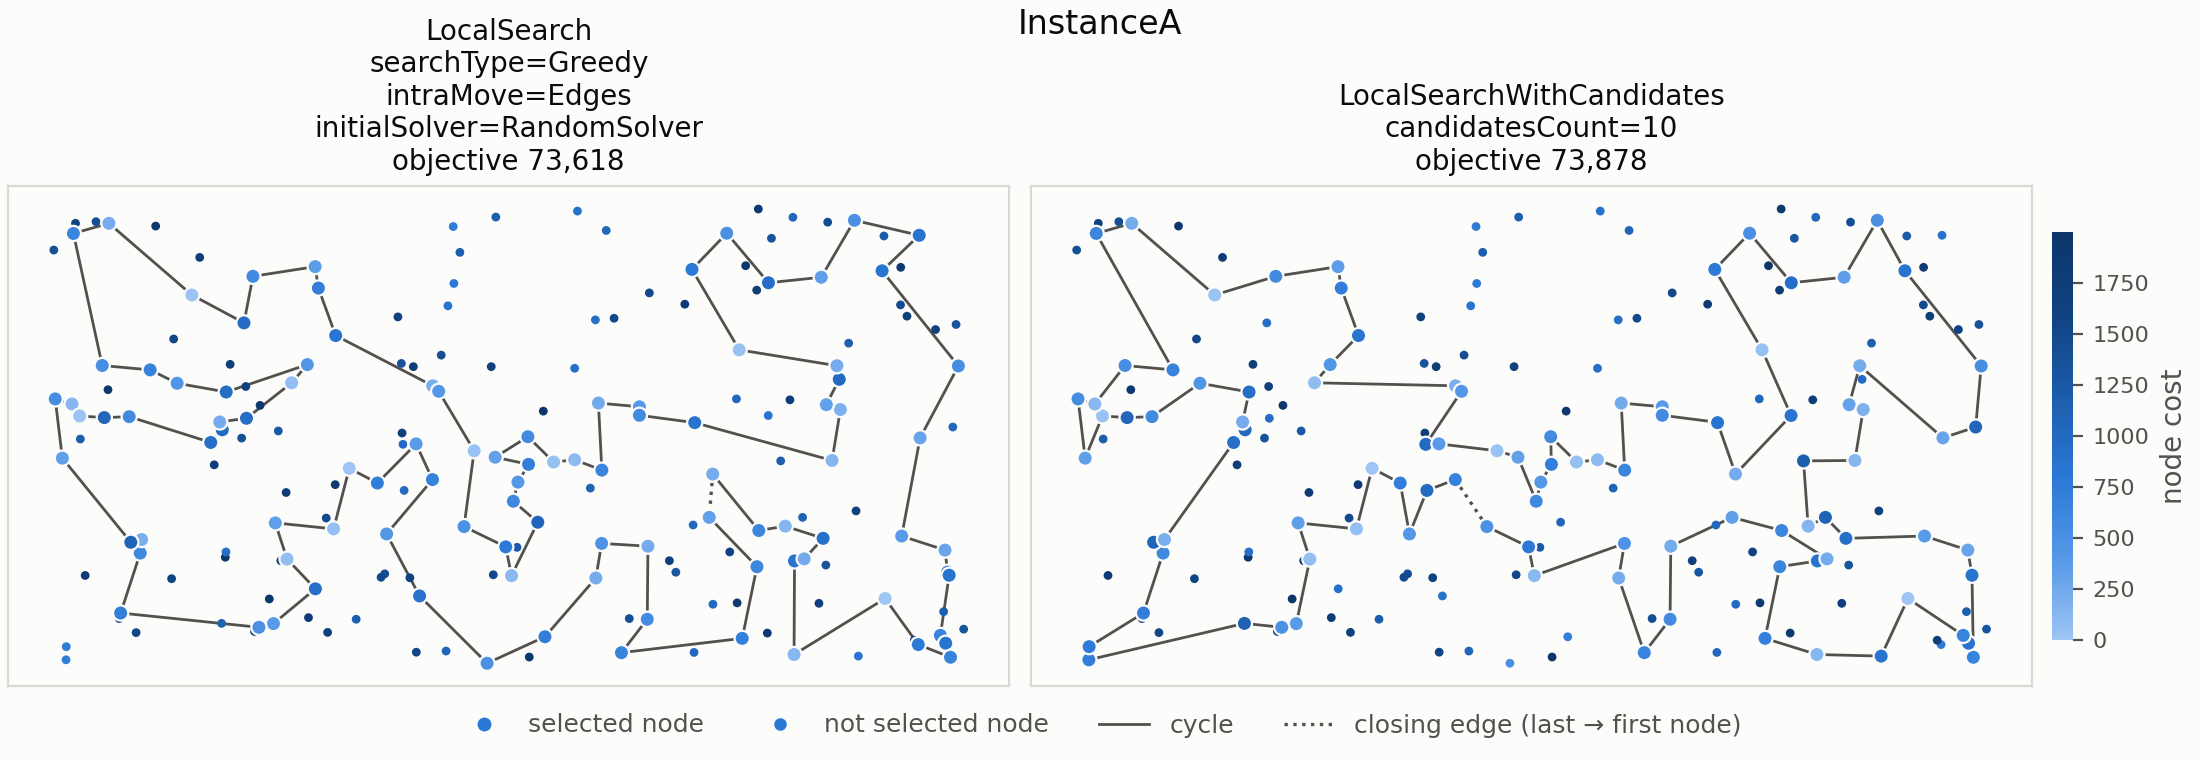
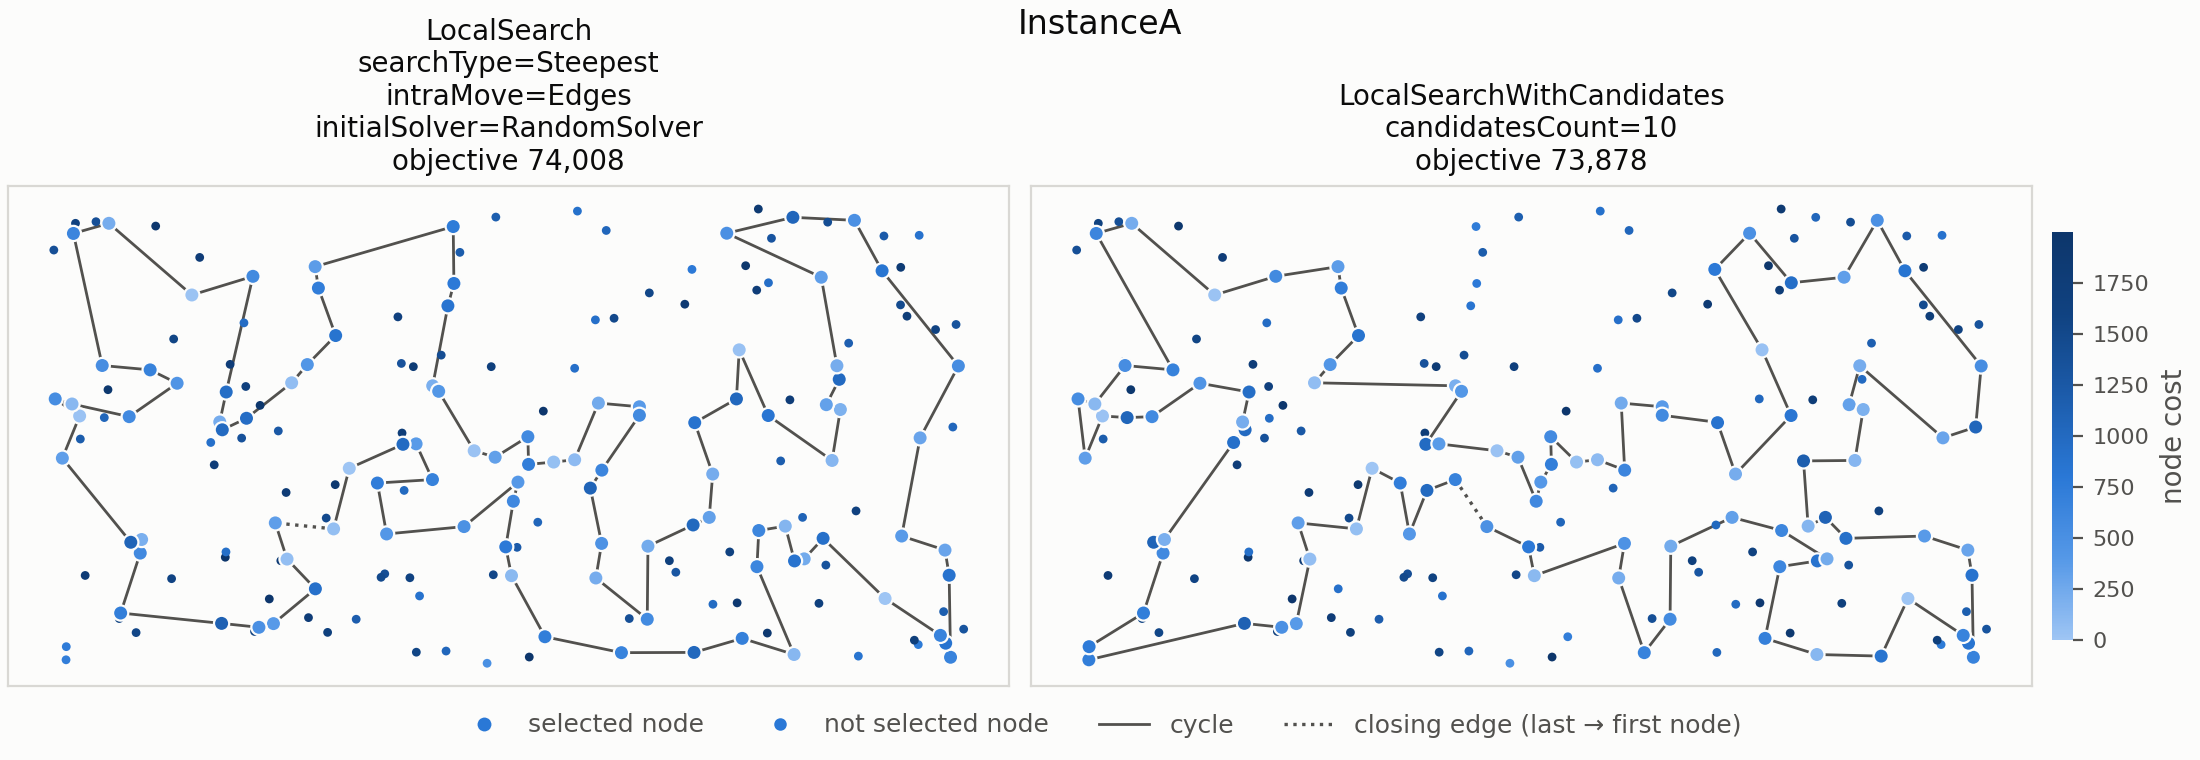
lab 4 report draft

diff --git a/reports/lab4_report.md b/reports/lab4_report.md
@@ -1,0 +1,366 @@
+---
+title: "Evolutionary Computation (Lab 4: Local Search with Candidates)"
+author:
+  - "Oliwier Necelman 160300"
+  - "Karol Okoń 160323"
+geometry: margin=2.2cm
+monofont: DejaVu Sans Mono
+header-includes:
+  - \usepackage{float}
+  - \floatplacement{figure}{H}
+  - \usepackage{booktabs}
+---
+
+# Problem story
+
+The student still has to attend 100 of the 200 classes in one day while
+getting as little tired as possible. This week they do not build the plan from
+scratch, but take a ready plan (a random one, or the one made with last week's
+weighted regret rule) and keep improving it with small changes: replacing one
+attended class with one not attended, swapping the order of two classes, or
+walking a part of the route in reverse.
+
+- The **greedy** student makes the first change that helps.
+- The **steepest** student checks every possible change and makes the best one.
+
+Both stop when no single change makes the day less tiring.
+
+# Problem description (exactly the same as last week)
+
+We are given a set of $n$ nodes. Each node has $x$ and $y$ coordinates in the
+plane and a cost. The goal is to select exactly $k = \lceil n/2 \rceil$ nodes and
+form a Hamiltonian cycle through them that minimizes the total length of the
+cycle plus the total cost of the selected nodes:
+
+$$
+f(C) = \sum_{i=1}^{k} d\left(C_i, C_{(i \bmod k) + 1}\right) + \sum_{i=1}^{k} c(C_i),
+$$
+
+where $C = (C_1, \dots, C_k)$ is the cycle, $d$ is the distance between two
+nodes and $c$ is the cost of a node.
+
+Distances are Euclidean distances rounded mathematically to integers. The
+distance matrix is computed once, right after reading an instance. The
+optimization methods access only the distance matrix and the node costs, never
+the coordinates, so the same code works for instances defined only by a
+distance matrix, including non-Euclidean distances for which the triangle
+inequality does not hold.
+
+Both instances used in the experiments (A and B) have $n = 200$ nodes, so every
+solution contains $k = 100$ nodes. Node costs range from 0 to 1997 in
+instance A and from 3 to 999 in instance B.
+
+# Implemented algorithms
+
+Notation: $D$ is the distance matrix, $c$ the vector of node costs, $C$ the
+current cycle with $k$ nodes, $C_i$ its node at position $i$ (indices modulo
+$k$), and $U$ the set of nodes not in the cycle.
+
+## Neighborhood
+
+The neighborhood consists of two kinds of moves. Every move is evaluated by its
+delta, the change of the objective function, computed only from the edges and
+nodes that change; a negative delta means an improvement. The neighbor solution
+is never built explicitly and the objective is never recomputed from scratch.
+
+- **Inter-route move**, exchange of a selected and an unselected node: node
+  $C_i$ is replaced by $u \in U$. With $a = C_{i-1}$, $v = C_i$, $b = C_{i+1}$:
+  $$\Delta = D[a][u] + D[u][b] + c[u] - D[a][v] - D[v][b] - c[v].$$
+- **Intra-route move, two-edges exchange**: edges $(C_i, C_{i+1})$ and
+  $(C_j, C_{j+1})$ are replaced by $(C_i, C_j)$ and $(C_{i+1}, C_{j+1})$, which
+  reverses the part of the cycle between them:
+  $$\Delta = D[C_i][C_j] + D[C_{i+1}][C_{j+1}] - D[C_i][C_{i+1}] - D[C_j][C_{j+1}].$$
+  Pairs of edges sharing a node are skipped, as the move changes nothing.
+
+The lab 4 variant keeps the same two move families, but it restricts attention
+to a small candidate set for every node. For each node $v$, the algorithm ranks
+all other nodes by the value $D[v][u] + c(u)$, keeps the $m$ best candidates,
+and stores them in a symmetric list of neighbors. A steepest step then
+considers only moves that add an edge between a selected node and one of its
+candidates, or between two selected nodes whose candidate relation is present.
+This keeps the neighborhood sparse while preserving the two main move types:
+inter-route replacement and 2-edge exchange.
+
+## Local search
+
+The same main loop is used by all eight methods. The type of the starting
+solution, the intra-route move and the type of local search are parameters.
+
+```
+Input:  distance matrix D, node costs c, start node s,
+        type of start, intra-route move, type of local search
+Output: locally optimal cycle C
+
+if random start:
+    C ← random solution
+else:
+    C ← best construction heuristic from lab 2 started from s
+repeat
+    improved ← step(C)                          ▷ steepest or greedy step
+until not improved
+return C
+```
+
+**Steepest step** — the best improving move in the candidate neighborhood is
+applied. The candidate list is built once at the beginning of the run, and the
+search considers only moves that use one of the candidate edges.
+
+```
+precompute candidateNeighbors[v] := m cheapest nodes u ≠ v by D[v][u] + c(u)
+for every v: candidateNeighbors[v] = sorted unique symmetric list
+best ← none, Δbest ← 0
+for each selected node x:
+    for each candidate u in candidateNeighbors[x]:
+        if u ∉ C:
+            for each adjacent position i of x:                ▷ inter-route moves
+                if Δinter(i, u) < Δbest: best ← (inter, i, u), Δbest ← Δinter(i, u)
+for each selected pair x, y with x < y:
+    if y ∈ candidateNeighbors[x]:
+        for each relevant pair of positions (p, q):        ▷ 2-edge exchange
+            if Δ2edge(p, q) < Δbest: best ← (2-edge, p, q), Δbest ← Δ2edge(p, q)
+if best = none: return false                               ▷ local optimum
+apply best, return true
+
+```
+draw the kind of moves to browse first, inter or intra, with probability 1/2
+for kind in (drawn kind, the other kind):
+    draw random offsets r1, r2
+    for a = 0, 1, …:                                   ▷ all moves of this kind,
+        for b = 0, 1, …:                               ▷ starting from (r1, r2)
+            (x, y) ← ((r1 + a) mod ·, (r2 + b) mod ·)  ▷ with wrap-around
+            if Δkind(x, y) < 0:
+                apply the move, return true
+return false                                           ▷ local optimum
+```
+
+**Randomization of the greedy version.** In every step the kind of moves
+browsed first (inter- or intra-route) is drawn with equal probability, so
+neither kind is always tried first. If no move of that kind improves the
+solution, the other kind is browsed. Within a kind, the moves are browsed in a
+fixed order starting from a random place: for inter-route moves from a random
+position in the cycle and a random unselected node, for intra-route moves from
+a random pair of positions, with wrap-around, so every move is visited exactly
+once. Deltas are computed only until the first improving move is found.
+
+## Starting solutions
+
+- **Random start**: a random set of $k$ nodes in random order.
+
+# Computational experiment
+
+Each of the eight local search methods was run 200 times per instance. Methods
+with a random start were run from 200 random solutions (seeds 1–200).
+All earlier methods were run again in the same way as in lab 2, and their
+objective values are identical to those in the lab 1 and lab 2 reports.
+
+As in lab 2, each run is a separate execution of the `test_algo` program (g++
+with `-O2`), and only the time of the `solve` call is measured. For local
+search this time includes building the starting solution (see the note below
+the table of running times).
+
+\begin{table}[H]
+\centering
+\small
+\textbf{Objective function}\\[6pt]
+\begin{tabular}{l r@{\ (}r@{ -- }r@{)\hspace{1.5em}} r@{\ (}r@{ -- }r@{)}}
+\toprule
+Method & \multicolumn{3}{c}{Instance A} & \multicolumn{3}{c}{Instance B} \\
+\cmidrule(lr){2-4} \cmidrule(l){5-7}
+ & \multicolumn{3}{c}{av (min -- max)} & \multicolumn{3}{c}{av (min -- max)} \\
+\midrule
+Random solution                          & 260\,176 & 229\,522 & 286\,183 & 205\,847 & 186\,703 & 227\,217 \\
+Nearest neighbor I                       & 87\,477 & 84\,362 & 90\,075 & 59\,397 & 56\,007 & 63\,166 \\
+Nearest neighbor II                      & 74\,307 & 72\,328 & 77\,022 & 59\,476 & 52\,915 & 66\,164 \\
+Greedy cycle                             & 73\,739 & 72\,590 & 75\,281 & 59\,651 & 55\,655 & 63\,734 \\
+\midrule[1pt]
+Nearest neighbor II 2-regret             & 122\,861 & 111\,527 & 133\,181 & 74\,763 & 69\,032 & 80\,767 \\
+Nearest neighbor II weighted 2-regret    & 75\,561 & 72\,419 & 78\,504 & 55\,698 & 50\,485 & 61\,406 \\
+Greedy cycle 2-regret                    & 120\,995 & 112\,654 & 130\,391 & 73\,459 & 69\,609 & 78\,175 \\
+Greedy cycle weighted 2-regret           & 73\,353 & 72\,011 & 75\,532 & 57\,863 & 52\,731 & 63\,370 \\
+\midrule[1pt]
+LS greedy, two-nodes, random start       & 88\,266 & 83\,363 & 94\,744 & 64\,560 & 58\,234 & 72\,315 \\
+LS greedy, two-nodes, greedy start       & 73\,025 & \textbf{71\,955} & 74\,877 & 54\,342 & 49\,978 & 61\,265 \\
+LS greedy, two-edges, random start       & 75\,646 & 73\,848 & 78\,573 & \textbf{52\,425} & 50\,636 & 54\,784 \\
+LS greedy, two-edges, greedy start       & \textbf{72\,961} & \textbf{71\,955} & 74\,607 & 53\,085 & 49\,378 & 60\,266 \\
+LS steepest, two-nodes, random start     & 90\,186 & 82\,230 & 98\,727 & 66\,372 & 59\,497 & 73\,726 \\
+LS steepest, two-nodes, greedy start     & 73\,022 & \textbf{71\,955} & 74\,861 & 54\,292 & 49\,978 & 61\,265 \\
+LS steepest, two-edges, random start     & 76\,208 & 73\,965 & 79\,586 & 52\,713 & 50\,189 & 55\,991 \\
+LS steepest, two-edges, greedy start     & 73\,004 & \textbf{71\,955} & 74\,861 & 53\,091 & \textbf{49\,346} & 60\,354 \\
+Local search with candidates             & 76\,234 & 73\,878 & 79\,182, & 52\,546 & 50\,422 & 55\,822 \\
+\bottomrule
+\end{tabular}
+\end{table}
+
+\begin{table}[H]
+\centering
+\small
+\textbf{Running time [ms]}\\[6pt]
+\begin{tabular}{l r@{\ (}r@{ -- }r@{)\hspace{1.5em}} r@{\ (}r@{ -- }r@{)}}
+\toprule
+Method & \multicolumn{3}{c}{Instance A} & \multicolumn{3}{c}{Instance B} \\
+\cmidrule(lr){2-4} \cmidrule(l){5-7}
+ & \multicolumn{3}{c}{av (min -- max)} & \multicolumn{3}{c}{av (min -- max)} \\
+\midrule
+Random solution                          & 0.007 & 0.004 & 0.013 & 0.008 & 0.004 & 0.120 \\
+Nearest neighbor I                       & 0.083 & 0.040 & 0.151 & 0.085 & 0.036 & 0.188 \\
+Nearest neighbor II                      & 2.741 & 1.219 & 4.871 & 2.155 & 1.213 & 3.605 \\
+Greedy cycle                             & 2.269 & 1.007 & 3.851 & 2.232 & 1.025 & 3.296 \\
+\midrule[1pt]
+Nearest neighbor II 2-regret             & 2.755 & 1.159 & 5.387 & 2.588 & 1.233 & 3.570 \\
+Nearest neighbor II weighted 2-regret    & 2.679 & 1.276 & 4.303 & 2.597 & 1.214 & 4.163 \\
+Greedy cycle 2-regret                    & 3.764 & 1.753 & 5.050 & 3.449 & 1.548 & 5.617 \\
+Greedy cycle weighted 2-regret           & 3.248 & 1.555 & 5.017 & 3.124 & 1.482 & 4.684 \\
+\midrule[1pt]
+LS greedy, two-nodes, random start       & 7.699 & 2.699 & 14.928 & 5.413 & 1.906 & 9.762 \\
+LS greedy, two-nodes, greedy start       & 3.891 & 1.779 & 6.388 & 3.983 & 1.626 & 7.996 \\
+LS greedy, two-edges, random start       & 6.676 & 1.927 & 12.110 & 4.695 & 1.730 & 7.907 \\
+LS greedy, two-edges, greedy start       & 4.015 & 1.757 & 6.419 & 3.985 & 1.520 & 7.478 \\
+LS steepest, two-nodes, random start     & 13.551 & 8.833 & 26.024 & 13.532 & 8.883 & 26.182 \\
+LS steepest, two-nodes, greedy start     & 4.075 & 1.763 & 7.550 & 4.106 & 1.376 & 7.449 \\
+LS steepest, two-edges, random start     & 11.191 & 6.780 & 18.608 & 11.200 & 6.556 & 18.579 \\
+LS steepest, two-edges, greedy start     & 3.874 & 1.694 & 6.153 & 4.468 & 1.600 & 7.482 \\
+Local search with candidates             & 3.540 & 3.213 & 4.673 & 3.325 & 2.871 & 4.806 \\
+\bottomrule
+\end{tabular}
+\end{table}
+
+The improvement in run time is clearly visible - Local search with candidates achieves simillar performance in fraction of time (on average 3x faster)
+
+The next table shows the number of steps, i.e. improving moves applied before a
+local optimum was reached. Zero steps mean that the starting solution (a
+construction from a greedy start) was already a local optimum.
+
+\begin{table}[H]
+\centering
+\small
+\textbf{Number of steps}\\[6pt]
+\begin{tabular}{l r@{\ (}r@{ -- }r@{)\hspace{1.5em}} r@{\ (}r@{ -- }r@{)}}
+\toprule
+Method & \multicolumn{3}{c}{Instance A} & \multicolumn{3}{c}{Instance B} \\
+\cmidrule(lr){2-4} \cmidrule(l){5-7}
+ & \multicolumn{3}{c}{av (min -- max)} & \multicolumn{3}{c}{av (min -- max)} \\
+\midrule
+LS greedy, two-nodes, random start       & 523.7 & 441 & 659 & 520.8 & 422 & 613 \\
+LS greedy, two-nodes, greedy start       & 4.2 & 0 & 12 & 17.0 & 0 & 41 \\
+LS greedy, two-edges, random start       & 507.1 & 436 & 567 & 515.9 & 451 & 594 \\
+LS greedy, two-edges, greedy start       & 5.1 & 0 & 21 & 28.4 & 3 & 63 \\
+LS steepest, two-nodes, random start     & 152.9 & 123 & 193 & 151.2 & 110 & 190 \\
+LS steepest, two-nodes, greedy start     & 3.3 & 0 & 9 & 10.5 & 0 & 23 \\
+LS steepest, two-edges, random start     & 132.3 & 116 & 150 & 133.3 & 114 & 151 \\
+LS steepest, two-edges, greedy start     & 3.3 & 0 & 10 & 14.3 & 3 & 30 \\
+Local search with candidates             & 132.7 & 116 & 154 & 132.5 & 115 & 150 \\
+\bottomrule
+\end{tabular}
+\end{table}
+
+"2-regret" denotes $\alpha = 1$ and "weighted 2-regret" denotes $\alpha = 0.5$.
+"LS greedy" and "LS steepest" are the two types of local search, "two-nodes"
+and "two-edges" the intra-route move, and "random" and "greedy" the starting
+solution.
+
+# Starting solutions of the best solutions
+
+For every local search method, the table shows the best final solution, the
+starting solution it was obtained from (the seed of the random solution, or the
+starting node of the construction heuristic) and the objective value of that
+starting solution.
+
+\begin{center}
+\small
+\begin{tabular}{lrrrrrr}
+\toprule
+ & \multicolumn{3}{c}{Instance A} & \multicolumn{3}{c}{Instance B} \\
+\cmidrule(lr){2-4} \cmidrule(lr){5-7}
+Method & Final & Start & Initial & Final & Start & Initial \\
+\midrule
+LS greedy, two-nodes, random start       & 83\,363 & seed 117 & 251\,863 & 58\,234 & seed 190 & 217\,259 \\
+LS greedy, two-nodes, greedy start       & 71\,955 & node 6 & 72\,575 & 49\,978 & node 90 & 50\,580 \\
+LS greedy, two-edges, random start       & 73\,848 & seed 97 & 267\,117 & 50\,636 & seed 151 & 225\,299 \\
+LS greedy, two-edges, greedy start       & 71\,955 & node 6 & 72\,575 & 49\,378 & node 105 & 54\,430 \\
+LS steepest, two-nodes, random start     & 82\,230 & seed 97 & 267\,117 & 59\,497 & seed 61 & 206\,038 \\
+LS steepest, two-nodes, greedy start     & 71\,955 & node 6 & 72\,575 & 49\,978 & node 90 & 50\,580 \\
+LS steepest, two-edges, random start     & 73\,965 & seed 135 & 264\,114 & 50\,189 & seed 43 & 220\,627 \\
+LS steepest, two-edges, greedy start     & 71\,955 & node 6 & 72\,575 & 49\,346 & node 193 & 54\,106 \\
+\bottomrule
+\end{tabular}
+\end{center}
+
+The best final solutions do not come from the best starting solutions. On
+instance A the best construction (72 011, e.g. from node 31) is improved only
+to 71 996, while the start from node 6 (72 575) leads to 71 955. On instance B
+the best construction (50 485, node 192) is improved to 50 031, while the best
+result, 49 346, comes from a starting solution of 54 106 (node 193).
+
+# Visualization of the best solutions
+
+Each panel shows the best solution found by one local search method. Node color
+encodes the node cost (darker means more expensive). Selected nodes are drawn
+larger, the solid line shows the cycle, and the dotted line marks the edge from
+the last node back to the first.
+
+![Best solutions for instance A](figures/lab4_plot_InstanceA.png)
+
+![Best solutions for instance B](figures/lab4_plot_InstanceB.png)
+
+# Best solutions
+
+The best solutions of the earlier methods are listed in the lab 1 and lab 2
+reports.
+
+## Instance A
+
+**LS steepest, two-edges, random start** (objective 74 008)
+
+```
+30 187 189 2 171 92 69 127 97 95 168 63 116 149 49 152 108 60 31 48 80 91 100 123 83 90 132 76 4 71 157 115 112 139 51 16 67 144 52 179 177 36 33 9 54 131 99 84 58 158 134 72 176 174 8 142 164 85 93 50 3 169 1 178 136 163 29 101 147 47 130 159 170 78 193 153 107 113 89 42 106 150 151 57 182 111 192 181 135 73 140 53 45 87 28 185 35 156 180 141
+```
+
+**Local search with candidates** (objective 73 878)
+
+```
+185 102 87 28 180 141 30 187 2 171 92 104 129 69 127 95 97 160 83 123 100 152 49 11 63 168 116 149 60 108 31 48 80 91 157 71 4 76 132 51 16 156 35 67 144 140 53 179 52 177 36 131 33 9 54 194 8 174 85 164 186 136 184 178 29 101 147 37 47 1 3 50 93 81 106 43 113 130 159 170 78 193 153 107 64 57 182 151 42 89 150 176 134 158 192 58 84 135 73 45
+```
+
+## Instance B
+
+**LS steepest, two-edges, random start** (objective 50 492)
+
+```
+30 38 47 140 154 40 60 45 134 175 71 155 125 170 115 180 6 29 132 178 65 145 28 149 116 147 42 121 198 96 48 89 57 190 70 94 105 81 169 187 196 114 10 148 56 118 110 93 2 17 171 39 99 74 20 14 153 52 90 129 127 80 192 54 162 76 66 67 31 24 34 152 181 126 88 179 87 82 85 59 73 51 167 98 151 3 184 86 46 72 117 8 120 133 136 172 160 69 21 183
+```
+
+**Local search with candidates** (objective 50 422)
+
+```
+149 116 147 42 121 198 96 48 89 83 57 190 70 81 94 105 196 114 10 90 129 153 14 2 74 20 182 80 127 54 192 162 104 185 76 66 67 24 34 152 181 179 87 82 51 85 59 73 167 151 122 173 184 3 86 46 72 120 133 136 8 117 160 69 172 189 21 183 30 130 191 38 47 140 154 97 71 40 60 157 45 134 175 62 91 36 197 29 132 103 6 180 115 170 177 125 26 158 145 28
+```
+
+# Solution checker
+
+The best solutions have been checked with the Solution checker.xlsx provided on
+ekursy, and we confirmed that the values computed by the checker match those
+computed by our algorithms.
+
+# Conclusions
+
+- **The candidate-based local search matches the best baseline in quality while
+  being much faster.** On instance A it reaches 76 234 on average, essentially
+  the same as the steepest two-edges local search with random start (76 208),
+  and on instance B it is even slightly better on average (52 546 vs 52 713).
+  The best runs are also very close: 73 878 vs 73 965 on instance A and 50 422
+  vs 50 189 on instance B, so the candidate variant is essentially tied with
+  the classical method in objective value. The difference is in time: the
+  candidate version takes only 3.54 ms on instance A and 3.33 ms on instance B,
+  compared with 11.19 ms and 11.20 ms for the classic steepest method, while
+  the average number of improving steps stays almost unchanged (132.7 vs 132.3
+  and 132.5 vs 133.3).
+
+# Source code
+
+The source code is available at <https://github.com/Kari3600/EC-Project>.
+
+The candidate-based local search is in `src/lab4_algos/`, and a single run can
+be executed with `src/TestAlgo.cpp` (the construction heuristic for the greedy
+start is chosen with `--init`). The experiment is run by
+`scripts/run_experiment.py`, and the figures of the best solutions are
+generated by `scripts/plot.py`.
